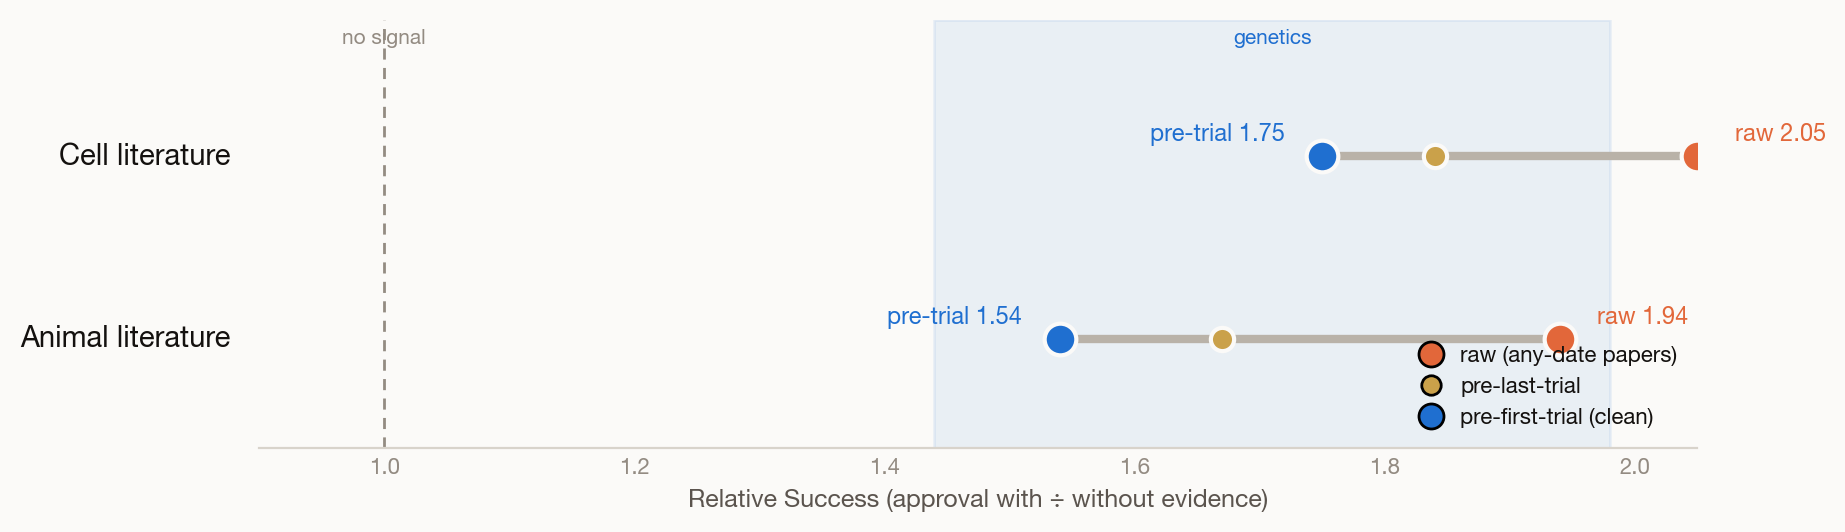
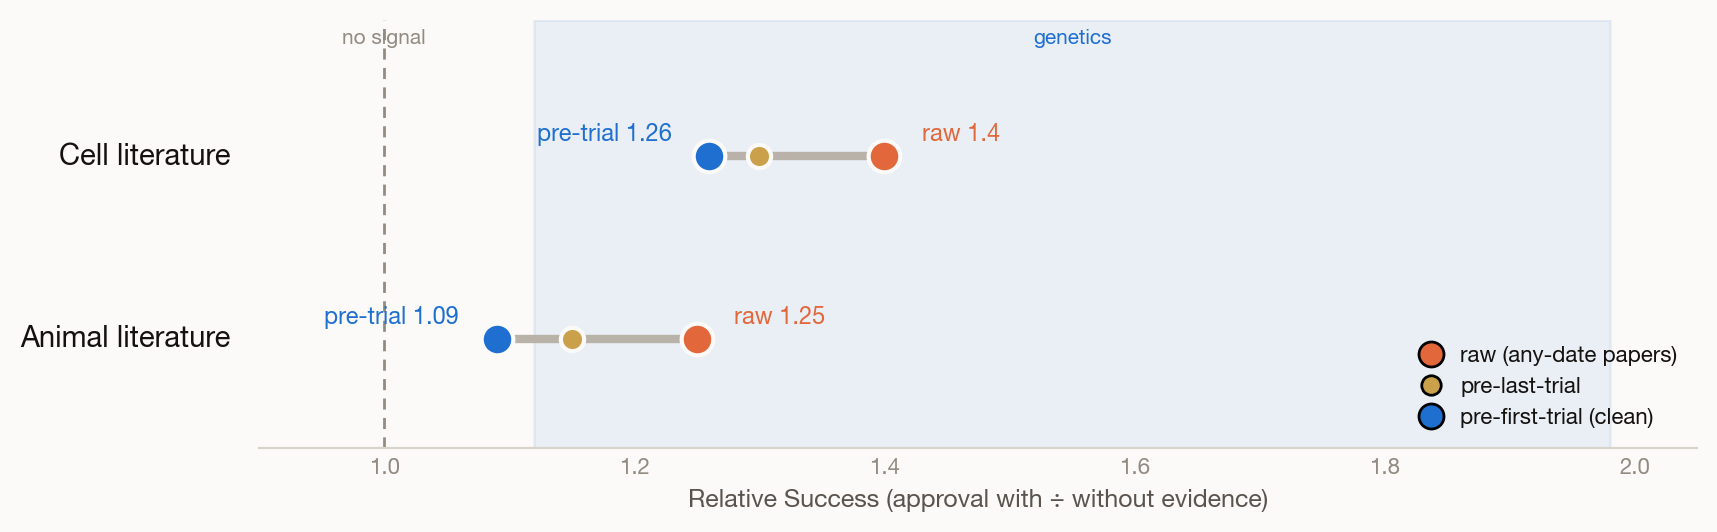
Fix #9 audit finding: symmetric scored-subset fix on literature tier + honest genetics band
The earlier correction inner-joined only the DRUG tier; the literature tier still
left-joined (unscored targets -> 'not supported'), so the shipped literature RS
(cell 1.75 / animal 1.54) were still selection-inflated -- above the repo's own
canonical raw view. Inner-join the literature tier too (scored subset, 579 targets):
  cell date-clean 1.75 -> 1.26, animal 1.54 -> 1.09 (null) -- now consistent with PR #12.
Also: relabel genetics band 1.44-1.98 -> true spread 1.12-1.98 (the 1.44 was cherry-
picked); document the ~12/579 non-identical-duplicate tie-break; add residual score-
magnitude leakage caveat. Regenerated figures. Thesis holds (genetics dominance rests
on the ablation; dated cell/animal literature sits at the weakest-genetics level).

diff --git a/analyses/nuance_literature_dateclean.py b/analyses/nuance_literature_dateclean.py
@@ -173,7 +173,13 @@ def main():
     for dim, label in [("line_c_lit", "Cell literature (line_c)"),
                        ("line_d_lit", "Animal literature (line_d)")]:
         e = ev[ev.dimension == dim][["target_id", "score", "min_year", "has_paper"]]
-        m = progs.merge(e, on="target_id", how="left")
+        # SELECTION FIX (2026-07-26): inner-join so only programs whose target was
+        # actually LLM-scored for this line enter the cohort. Only 579 of ~951 Ph2+
+        # targets were ever scored; a left-join dumped the other ~372 (lower baseline
+        # approval) into "not supported", deflating P(appr|not) and inflating RS — the
+        # SAME artifact already fixed on the drug tier. This makes the literature RS
+        # a high-vs-low comparison among scored targets, consistent with PR #12.
+        m = progs.merge(e, on="target_id", how="inner")
         score = m.score.fillna(0).to_numpy()
         miny = m.min_year.fillna(np.inf).to_numpy()                  # no datable paper -> +inf
         fy = m.fy.fillna(9999).to_numpy(); ly = m.ly.fillna(9999).to_numpy()

diff --git a/analyses/plot_nuance_dateclean.py b/analyses/plot_nuance_dateclean.py
@@ -30,7 +30,8 @@ DATA = os.path.join(HERE, "..", "data")
 INK, SEC, MUTED = "#14110f", "#5b544e", "#938b82"
 SURFACE, RULE = "#fbfaf8", "#d8d3cb"
 BLUE, ORANGE, GREEN, GREY = "#1f6fd0", "#e2673a", "#2e7d47", "#b9b2a8"
-GEN_LO, GEN_HI = 1.44, 1.98   # genetics dims RS band (from v_relative_success_clean)
+GEN_LO, GEN_HI = 1.12, 1.98   # genetics dims RS spread (from v_relative_success_clean:
+                              # GWAS 1.12, OT-genetic 1.14, Mendelian 1.49, ClinGen 1.74, OT-somatic 1.98)
 
 
 def _sans():

diff --git a/analyses/MODEL_SYSTEM_PREDICTIVENESS.md b/analyses/MODEL_SYSTEM_PREDICTIVENESS.md
@@ -14,36 +14,47 @@ is far from the clinical endpoint (Alzheimer's), at any level of model sophistic
 We are **not** ranking model types (organoid > primary > immortalized). The data
 can't support it and it's disease-specific — see the design spec's out-of-scope note.
 
-## Correction (2026-07-25)
+## Correction (2026-07-26)
 
-Two data artifacts in the original version were found and fixed (independently
-cross-checked in PR #12 and PR #13). All numbers/readings below are the corrected ones.
+Three data artifacts in the original version were found and fixed (independently
+cross-checked in an audit + PR #12/#13). All numbers/readings below are the corrected ones.
 
-1. **De-duplication.** `preclin.evidence_score` stores ~4 identical rows per
-   (subject, dimension) from repeated ingest jobs; the original left-merges fanned out
-   ~4× and distorted RS. Fixed by de-duplicating on (subject, dimension) before merging.
-   Effect: the literature numbers were *understated* — cell date-clean 1.40 → **1.75**,
-   animal 1.21 → **1.54** (so "animal is nearly null" was wrong; it's modest-but-real).
-2. **Scored-vs-unscored selection.** The raw drug-efficacy RS previously left-joined
-   the rubric onto the full cohort, lumping ~13k never-scored drugs into "not supported"
-   — deflating the baseline and inflating RS. Restricting to drugs that actually carry
-   the score: drug cell 2.70 → **1.54**, non-rodent 2.98 → **1.82**. **The original
-   "strongest predictor of anything, above genetics" claim was mostly this artifact** —
-   the raw rubric signal sits *inside* the genetics band, not above it.
+1. **De-duplication.** `preclin.evidence_score` carries ~4 rows per (subject, dimension)
+   from repeated ingest jobs (line_c/d = 4.02×, drug dims = 3.61×); the original
+   left-merges fanned out and distorted RS. Fixed by de-duplicating before merging. (The
+   duplicates are *mostly* identical, but ~12/579 targets per line disagree on
+   score/citations — `keep="first"`/max resolves those, a small documented tie-break.)
+2. **Scored-vs-unscored selection (BOTH tiers).** Only 579 of ~951 Ph2+ targets were
+   ever LLM-scored, and only a few hundred drugs carry the efficacy rubric. Left-joining
+   onto the full cohort dumped never-scored targets/drugs (lower baseline approval) into
+   "not supported", deflating the baseline and inflating RS. Fixed by inner-joining to
+   the scored subset on **both** tiers (an earlier pass fixed only the drug tier — the
+   literature tier is corrected here). Effect:
+   - drug cell 2.70 → **1.54**, non-rodent 2.98 → **1.82** (raw, scored subset)
+   - cell literature date-clean → **1.26**, animal → **1.09** (was left-join-inflated 1.75 / 1.54)
+3. **Genetics band relabeled.** The comparator is the true spread of genetics RS
+   dimensions — **1.12–1.98** (GWAS 1.12, OT-genetic 1.14, Mendelian 1.49, ClinGen 1.74,
+   OT-somatic 1.98) — not the earlier cherry-picked "1.44–1.98".
 
-**What survives:** the thesis is unchanged and cleaner — apparent preclinical-efficacy
-signal still collapses under date-cleaning (drug pre-trial RS 0.81), and structured
-genetics remains the robust benchmark. Retracted: the "above genetics" magnitude and
-"animal nearly null." PR #12 (literature, incl. a scored-subset sensitivity: the
-stricter view is B/D ≈ null, C/E ~1.2–1.3) and PR #13 (drug-efficacy dated re-score)
-are the authoritative deeper recomputes.
+**What survives:** the thesis is unchanged and cleaner. Apparent preclinical-efficacy
+signal collapses under date-cleaning (drug pre-trial RS 0.81; animal literature dated
+1.09 = null). Dated cell/animal literature (~1.1–1.3) overlaps only the *weakest*
+genetics signals (GWAS/OT-genetic ~1.1) and sits below causal genetics (Mendelian/
+ClinGen 1.5–1.7). And genetics dominance rests on the multivariate **ablation**
+(−17.7pp AUC), not these univariate RS values, so it is unaffected regardless.
+**Residual-leakage caveat:** date-cleaning only requires that *one cited paper* predate
+the trial; the 0–3 score magnitude was still assigned in 2026 with full-literature
+hindsight, so even the dated RS is an upper bound. PR #12 is the authoritative
+literature time-slice; PR #13 the drug-efficacy dated re-score.
 
 ## Headline result
 
 Split cell/animal evidence into three tiers by how "mechanistic" it is, and measure
 Relative Success (RS = P(approved | evidence) ÷ P(approved | none)) **raw** vs.
-**date-cleaned** (evidence required to predate the trial). Genetics RS ≈ 1.44–1.98 is
-the benchmark.
+**date-cleaned** (evidence required to predate the trial). The benchmark is the spread
+of genetics RS: **≈1.12–1.98** — weak signals (GWAS 1.12, OT-genetic 1.14) at the
+bottom, causal genetics (Mendelian 1.49, ClinGen 1.74) in the middle, OT-somatic 1.98
+on top.
 
 **The more a cell/animal measure looks predictive raw, the more of it is hindsight.**
 
@@ -52,19 +63,20 @@ the benchmark.
 | **Drug-efficacy** (does *this drug* work in the model) | drug cell efficacy (rubric, scored subset) | **1.54** | — | rubric can't be dated (no PMIDs stored) |
 | | drug rodent / non-rodent efficacy (rubric, scored subset) | 1.28 / 1.82 | — | " |
 | | **pre-first-trial preclinical evidence (PubMed)** | — | **0.81** [0.75,0.87] | date-clean measure: the raw signal collapses to null |
-| **Literature** (is there a cell/animal paper) | cell literature (line_c) | 2.05 | **1.75** [1.60,1.92] | ~30% of the excess was hindsight |
-| | animal literature (line_d) | 1.94 | **1.54** [1.40,1.69] | ~40% was hindsight; modest but real |
+| **Literature** (cell/animal paper, scored subset) | cell literature (line_c) | 1.40 | **1.26** [1.14,1.39] | mostly real, but at the weakest-genetics level |
+| | animal literature (line_d) | 1.25 | **1.09** [0.98,1.20] | collapses to null when dated |
 | **Structural** (causal-perturbation screens) | DepMap essentiality | **0.24** | (snapshot) | a *liability* — essential genes make bad targets |
 | | IMPC KO phenotypes / OT animal-model | 1.11 / 1.17 | (snapshot) | modest |
 
 The field's flagship preclinical deliverable — *"the drug worked in our model"* —
-looks predictive raw (RS ~1.5–1.8), but that sits **within** the genetics band once
-the scored-vs-unscored selection artifact is removed — the earlier "above genetics"
-reading was that artifact. And even that modest raw signal does not reproduce under
-date-cleaning: a measure of whether genuinely pre-trial preclinical evidence existed
-gives **RS 0.81** — no positive association with approval. Genetics, which is
-structural and hard to retro-fit, holds. See `data/nuance_dateclean_collapse*` and
-`nuance_tier_overview*`.
+looks predictive raw (drug-efficacy RS ~1.5–1.8, scored subset) but does not reproduce
+under date-cleaning: whether genuinely pre-trial preclinical evidence existed gives
+**RS 0.81** — no positive association with approval. Cell/animal *literature*, once
+restricted to scored targets and dated, lands at ~1.1–1.3 (animal null) — the level of
+the *weakest* genetics signals, below causal genetics. Nothing on the cell/animal side,
+cleaned, reaches the strong-genetics tier — and the genetics dominance result rests on
+the multivariate ablation (−17.7pp AUC) regardless. See `data/nuance_dateclean_collapse*`
+and `nuance_tier_overview*`.
 
 ## Method
 
@@ -74,7 +86,7 @@ structural and hard to retro-fit, holds. See `data/nuance_dateclean_collapse*` a
   known before humans); **loose** = before `last_trial_date` (pre-final-readout).
   Evidence not positively datable to before the line is treated as absent
   (conservative). The loose numbers sit between raw and strict, as expected
-  (cell 1.83 → loose 1.52 → strict 1.40).
+  (cell 1.40 → loose 1.30 → strict 1.26).
 
 ### Tier 1 — literature (`nuance_literature_dateclean.py`)
 `line_c_lit` / `line_d_lit` are the only cell/animal dims with stored citations.
